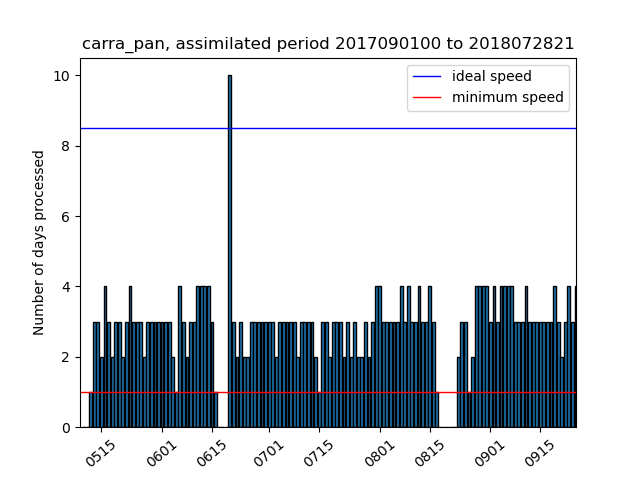
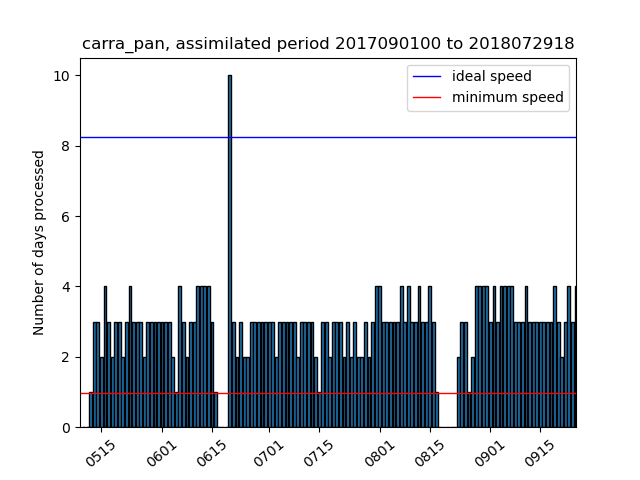
update repo

Changed region(s): [[0.125, 0.25, 0.9062, 0.3125], [0.125, 0.8125, 0.9062, 0.8438], [0.8438, 0.0625, 0.9062, 0.125]]

diff --git a/current_state_sims.html b/current_state_sims.html
@@ -2,18 +2,18 @@
 <h1>Estimated completion dates and simulation speeds</h1>
 <p>Stream (production) completion date based on 30d (7d) moving avg speed</p>
 <p><a href="https://docs.google.com/document/d/1zDKAxuEXYnWWYzT3SZnZwY5WW8nodUMeYRjAGz46coc/edit#">Details of the calculation of the completion dates</a></p>
-<p>Last update: 2021/09/26 06:45:42 UTC</p>
-<p>Total progress CARRA: 99.22% <a href="https://hirlam.org/portal/CARRA/Progress/GanntChart_CARRA.html"> (see detailed progress meter in Gantt chart) </a></p>
+<p>Last update: 2021/09/26 12:41:42 UTC</p>
+<p>Total progress CARRA: 99.33% <a href="https://hirlam.org/portal/CARRA/Progress/GanntChart_CARRA.html"> (see detailed progress meter in Gantt chart) </a></p>
 <p>Total progress PANARCTIC: 90.91% </p>
 <p><a href="https://hirlam.org/portal/CARRA/Progress/waiting_times.html"> Queue waiting times for all streams</a></p>
 <p><a href="https://hirlam.org/portal/CARRA/Progress/mars_status.html"> MARS archive throughput </a></p>
 <html><table border="1"><tr><th>expId</th><th>Current assimilated date</th><th>End date of stream </th><th> Completion date</th><th> Avg. throughput (7d) </th> <th>Avg. throughput (30d) </th> <th> Remarks</tr>
-<tr bgcolor="#FFFFFF"><td>carra_NE_3</td><td>2021063000</td><td>2021063021</td><td>2021092606</td><td>(1.57) days/day</td><td>(3.57) days/day</td><td></tr>
+<tr bgcolor="#FFFFFF"><td>carra_NE_3</td><td>2021063000</td><td>2021063021</td><td>2021092612</td><td>(1.57) days/day</td><td>(3.57) days/day</td><td></tr>
 <tr bgcolor="#33FF38"><td>carra_NE_4</td><td>1992090100</td><td>1992083021</td><td>Finished on 20210824</td><td>(0.0) days/day</td><td>(0.0) days/day</td><td>Stream finished</tr>
 <tr bgcolor="#33FF38"><td>carra_NE_5</td><td>1994090100</td><td>1994083021</td><td>Finished on 20210824</td><td>(0.0) days/day</td><td>(0.0) days/day</td><td>Stream finished</tr>
-<tr bgcolor="#33FF38"><td>carra_NE_6</td><td>1997070100</td><td>1997063021</td><td>2021092601</td><td>(0.0) days/day</td><td>(4.57) days/day</td><td>Stream finished</tr>
-<tr bgcolor="#FFFFFF"><td>carra_IGB_3</td><td>2021063000</td><td>2021063021</td><td>2021092606</td><td>(2.29) days/day</td><td>(3.43) days/day</td><td></tr>
-<tr bgcolor="#33FF38"><td>carra_IGB_4</td><td>1992090100</td><td>1992083021</td><td>2021092511</td><td>(0.0) days/day</td><td>(2.43) days/day</td><td>Stream finished</tr>
-<tr bgcolor="#33FF38"><td>carra_IGB_5</td><td>1994090100</td><td>1994083021</td><td>2021092522</td><td>(5.57) days/day</td><td>(5.8) days/day</td><td>Stream finished</tr>
-<tr bgcolor="#FFA500"><td>carra_IGB_6</td><td>1996113012</td><td>1997063021</td><td>2021110115</td><td>(6.29) days/day</td><td>(5.83) days/day</td><td>Completion date after project end (20211031)</tr>
-<tr bgcolor="#FFFFFF"><td>carra_pan</td><td>2018072821</td><td>2018083121</td><td>2021100609</td><td>(3.29) days/day</td><td>(3.37) days/day</td><td></tr>
+<tr bgcolor="#33FF38"><td>carra_NE_6</td><td>1997070100</td><td>1997063021</td><td>2021092607</td><td>(0.0) days/day</td><td>(4.57) days/day</td><td>Stream finished</tr>
+<tr bgcolor="#FFFFFF"><td>carra_IGB_3</td><td>2021063000</td><td>2021063021</td><td>2021092612</td><td>(2.29) days/day</td><td>(3.43) days/day</td><td></tr>
+<tr bgcolor="#33FF38"><td>carra_IGB_4</td><td>1992090100</td><td>1992083021</td><td>2021092516</td><td>(0.0) days/day</td><td>(2.43) days/day</td><td>Stream finished</tr>
+<tr bgcolor="#33FF38"><td>carra_IGB_5</td><td>1994090100</td><td>1994083021</td><td>2021092604</td><td>(5.57) days/day</td><td>(5.8) days/day</td><td>Stream finished</tr>
+<tr bgcolor="#FFA500"><td>carra_IGB_6</td><td>1996120209</td><td>1997063021</td><td>2021110112</td><td>(6.29) days/day</td><td>(5.83) days/day</td><td>Completion date after project end (20211031)</tr>
+<tr bgcolor="#FFFFFF"><td>carra_pan</td><td>2018072918</td><td>2018083121</td><td>2021100607</td><td>(3.29) days/day</td><td>(3.37) days/day</td><td></tr>
